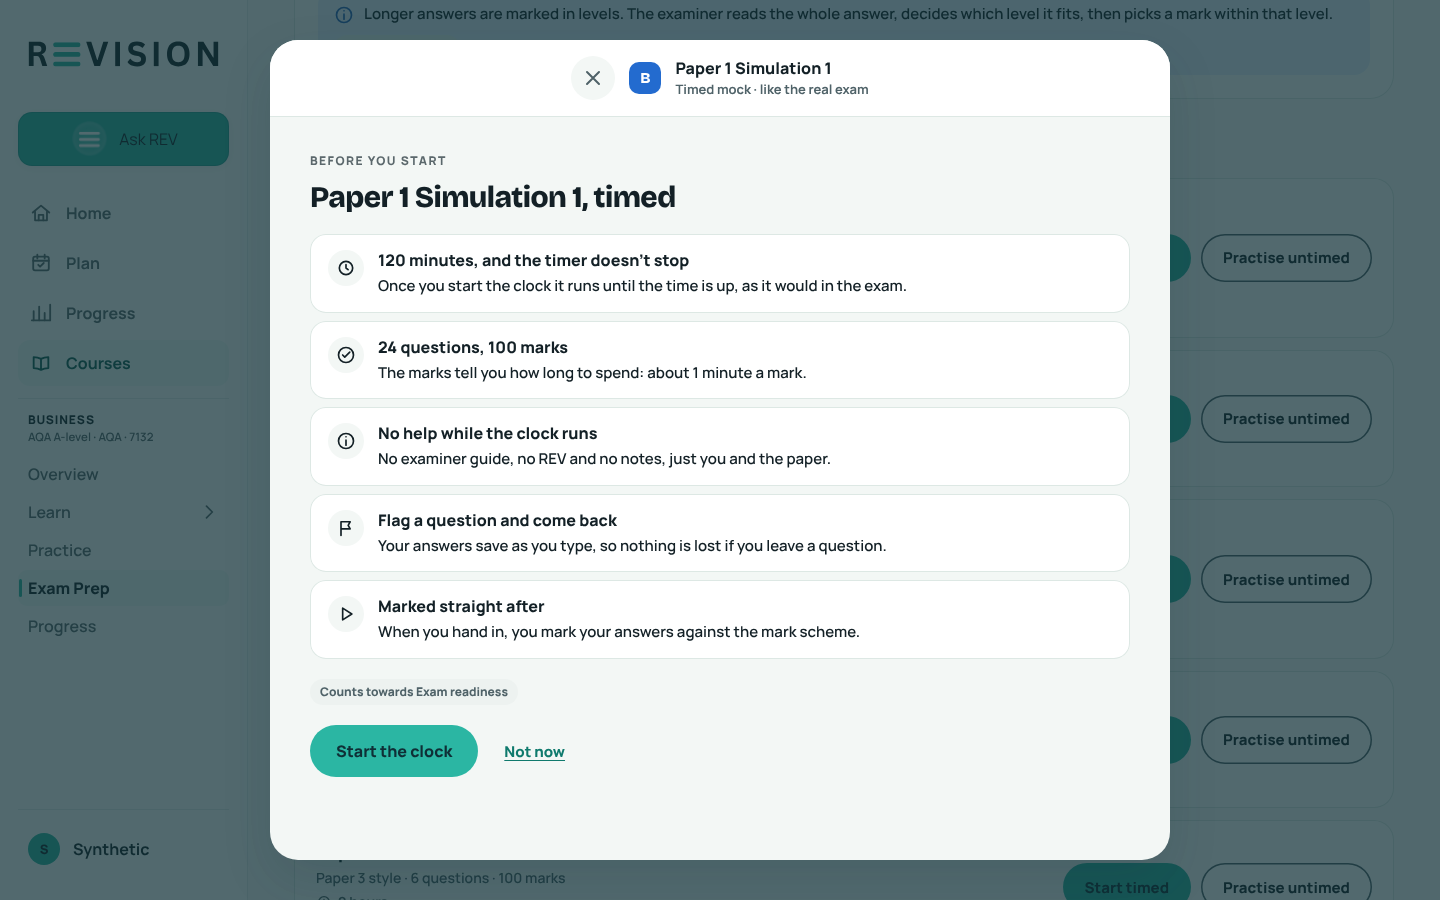
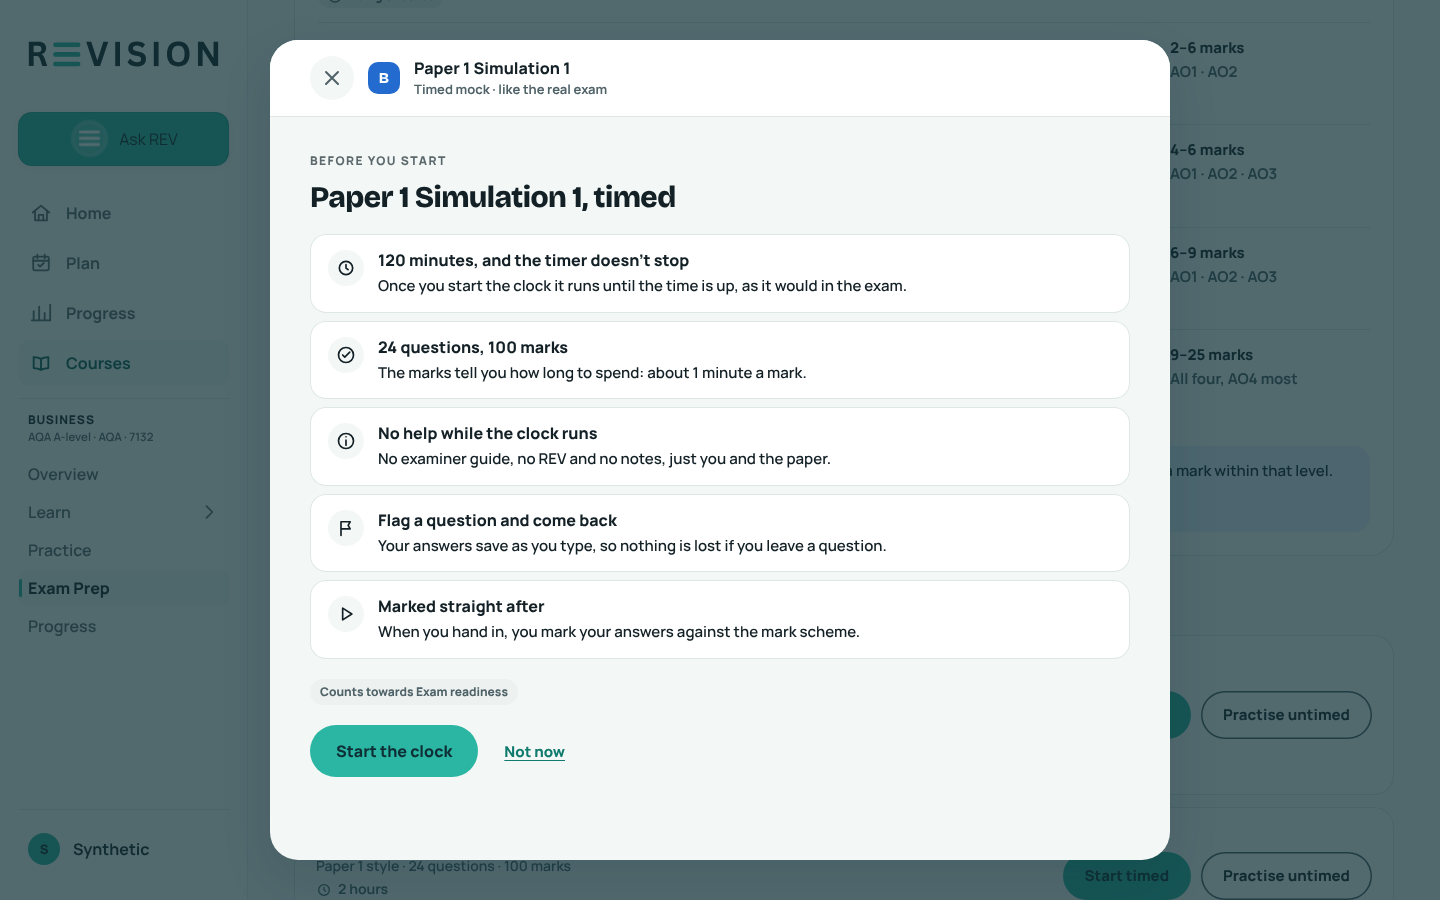
Exam Prep PR 2: screenshot spec uses the paper with real multiple choice; screenshots so far
Claude-Session: https://claude.ai/code/session_01TaXUyyr58HGymtvg61vPiU

diff --git a/tests/e2e/mock-exam-flow.spec.ts b/tests/e2e/mock-exam-flow.spec.ts
@@ -271,7 +271,7 @@ if (shots) {
         await at('before-untimed')
         await page.getByRole('dialog').getByRole('button', { name: 'Not now' }).click()
 
-        await openMock(page, paper1Sim, 'timed')
+        await openMock(page, retained1, 'timed')
         await begin(page, 'timed')
         await page.locator('.practice-question__options button').nth(1).click()
         await page.getByRole('button', { name: 'Flag to check' }).click()
